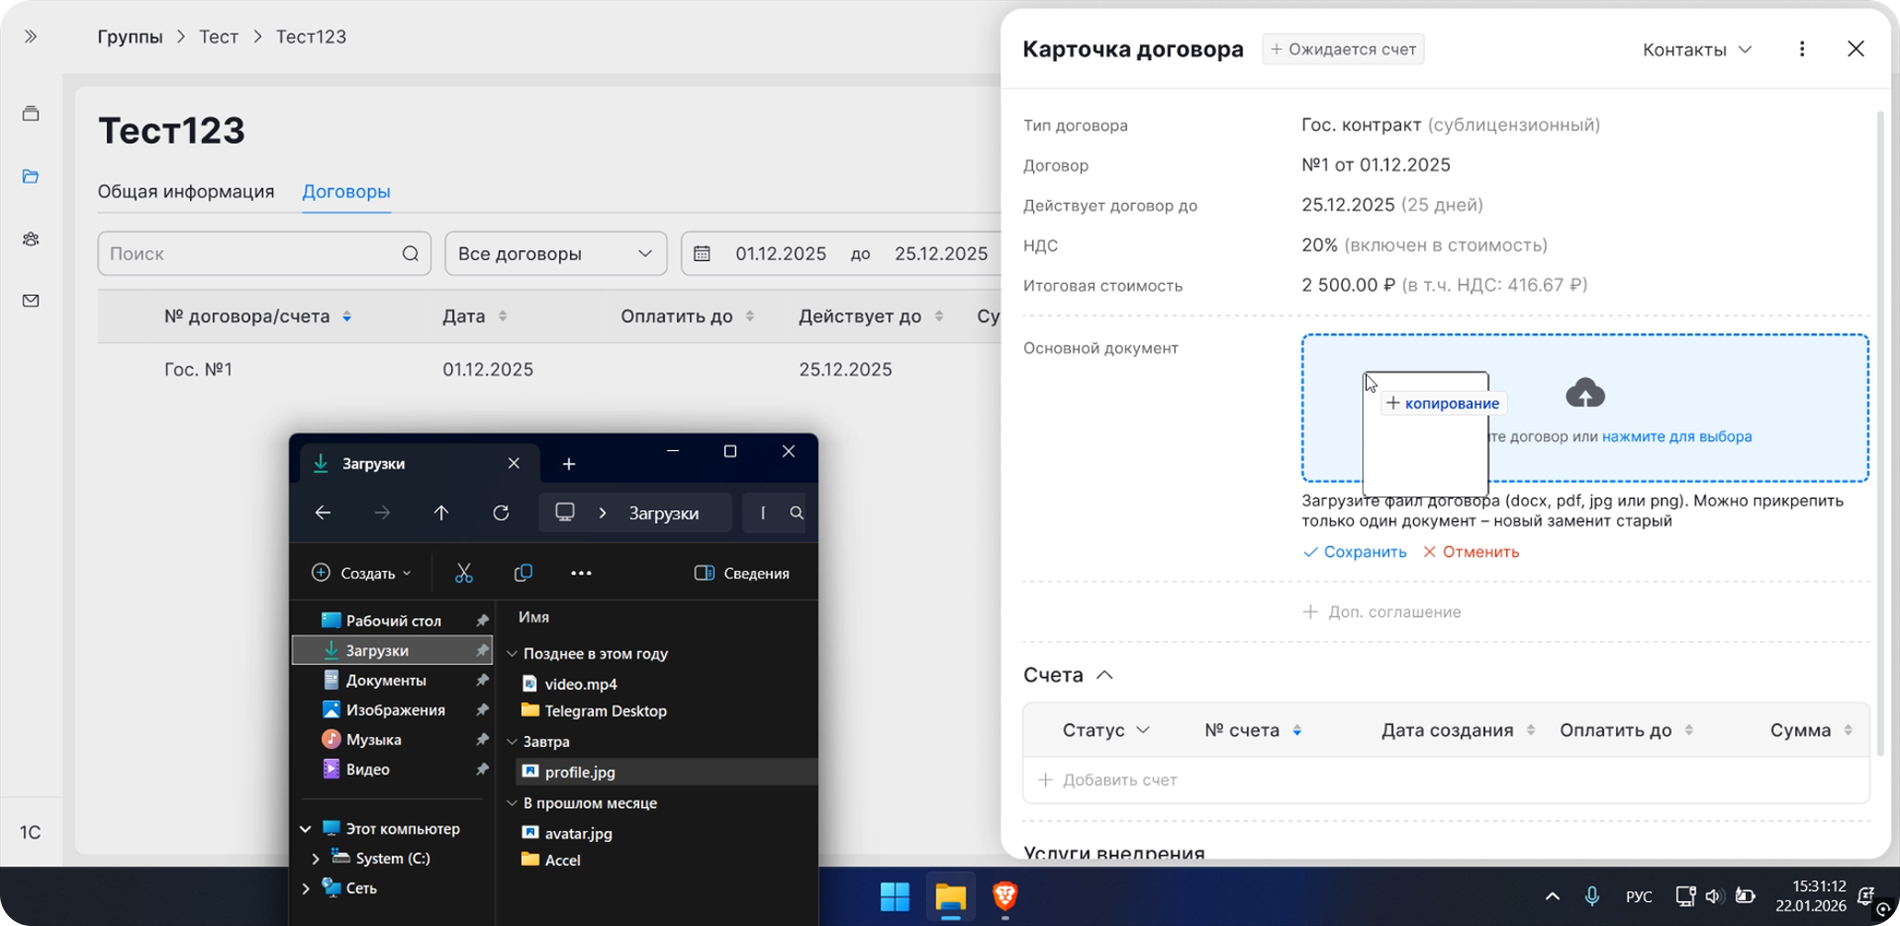
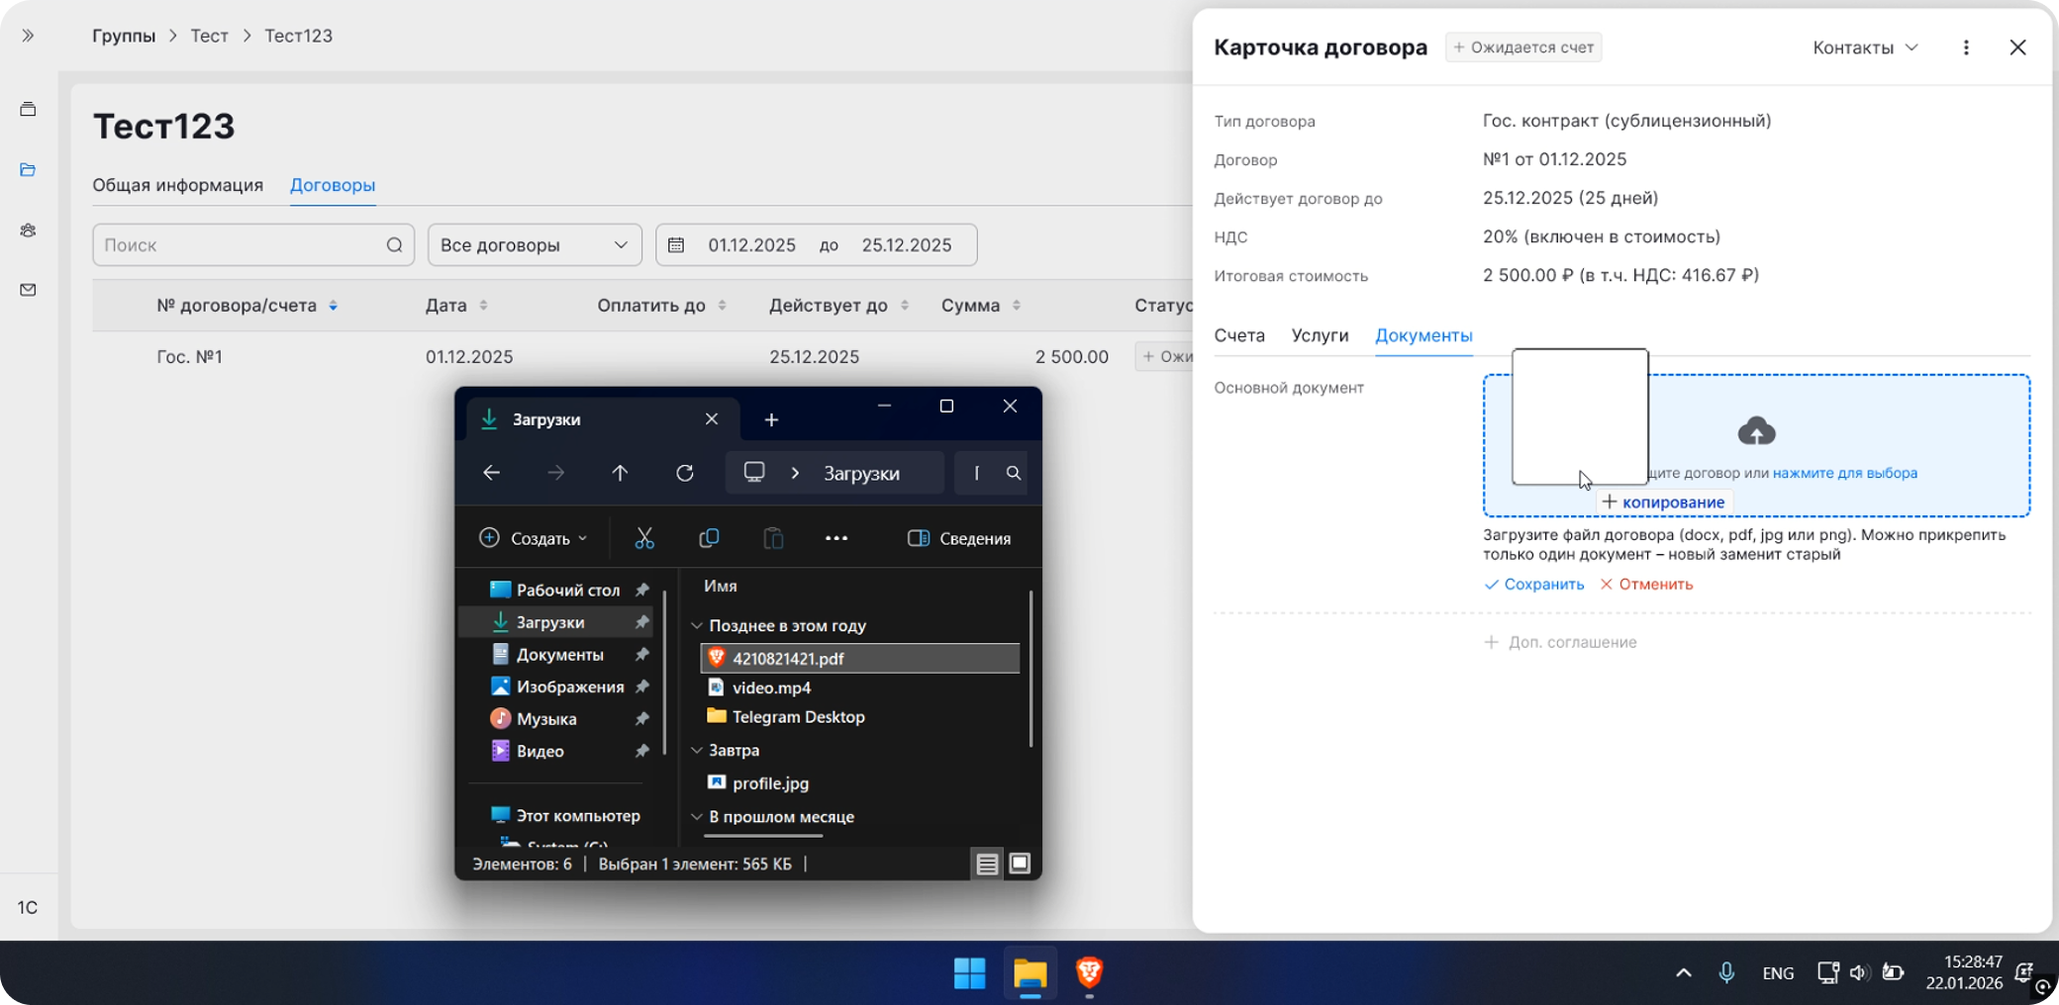
v.1.4

diff --git a/story-builder.html b/story-builder.html
@@ -41,19 +41,19 @@
       <section class="story-section anchor-section anim-load anim-delay-3" id="sb-context">
         <h2 class="story-section__title">Контекст</h2>
         <p class="story-section__description">
-          Раньше сторисы собирали разработчики, что замедляло выпуск контента, поэтому был создан конструктор сторисов, позволяющий менеджерам самостоятельно собирать и публиковать их из готовых пресетов
+          В мобильном приложении компании сторисы использовались как промо-инструмент. Для работы с этим контентом мы с командой создали конструктор сторисов – систему с готовыми пресетами, которая позволяла менеджерам самостоятельно собирать, редактировать и публиковать сторисы без участия разработчиков
         </p>
       </section>
       <section class="story-section anchor-section anim-load anim-delay-4" id="sb-problem">
         <h2 class="story-section__title">Проблема</h2>
         <p class="story-section__description">
-          Во время юзабилити-тестирования первой версии с менеджерами выяснилось, что при создании вложенных сторисов они проверяют линковку вручную, т.е. прокликивают каждую кнопку. Из-за этого процесс занимал больше времени и росло количество ошибок
+          После запуска первой версии на тестовом стенде стало понятно, что при создании вложенных сторисов менеджеры вручную проверяют линковку, прокликивая каждую кнопку, что увеличивает время работы и количество ошибок
         </p>
       </section>
       <section class="story-section anchor-section anim-load anim-delay-5" id="sb-role">
         <h2 class="story-section__title">Роль</h2>
         <p class="story-section__description">
-          Проведение юзабилити-тестирования и конкурентного анализа, описание job story и сценариев, приоритизация гипотез по ICE, подготовка screen-flow. Все решения проходили регулярные дизайн-ревью со старшим дизайнером
+          Проведение юзабилити-тестирования и конкурентного анализа, описание job story и сценариев, подготовка screen-flow. Все решения проходили регулярные дизайн-ревью со старшим дизайнером
         </p>
       </section>
       <section class="story-section anchor-section anim-load anim-delay-6" id="sb-approach">
@@ -111,26 +111,15 @@
       </div>
       <section class="story-section">
         <p class="story-section__description">
-          И наконец, на основе всего были сформулированы гипотезы улучшений, которые затем c командой приоритизировали по ICE
+          На основе тестирования и анализа пользовательских сценариев мы сформулировали основную продуктовую гипотезу: если дать пользователю единое представление о структуре и проблемных связях, то время ручной проверки перед публикацией сократится, а количество ошибок снизится
+        </p>
+        <p class="story-section__description">
+          Для проверки этой гипотезы мы рассмотрели несколько интерфейсных решений: интерактивный холст, отдельный блок со всеми переходами, карта экранов, статусы кнопок и подсветку проблемных мест
+        </p>
+        <p class="story-section__description">
+          В этом кейсе я сфокусируюсь на двух решениях: интерактивный холст и статусы кнопок
         </p>
       </section>
-      <div
-        class="image-block"
-        data-full-src="./src/img/sb-prioritization@4x.png"
-      >
-        <div class="image-block__container">
-          <img
-            class="image-block__image"
-            src="./src/img/sb-prioritization.png"
-            alt=""
-            width="984"
-            height="719"
-            loading="lazy"
-            decoding="async"
-          >
-        </div>
-        <div class="image-block__caption">Приоритизация гипотез</div>
-      </div>
       <section class="story-section anchor-section" id="sb-solution">
         <h2 class="story-section__title">Решение</h2>
         <p class="story-section__description">В изначальной версии пользователю необходимо было сначала нажать на кнопку, чтобы понять, куда она ведет</p>
@@ -154,7 +143,7 @@
       </div>
       <section class="story-section">
         <p class="story-section__description">
-          В новой версии добавили глобальный вид, который показывает все линковки в одном месте, т.е. без ручного прокликивания
+          В новой версии добавили кнопку “К глобальному виду”, которая ведет к интерактивному холсту
         </p>
       </section>
       <div
@@ -174,6 +163,11 @@
         </div>
         <div class="image-block__caption">Новая версия</div>
       </div>
+      <section class="story-section">
+        <p class="story-section__description">
+          Это позволило показать все экраны и переходы в одном месте
+        </p>
+      </section>
       <div
         class="image-block"
         data-full-src="./src/img/sb-global@4x.png"
@@ -190,28 +184,6 @@
           >
         </div>
         <div class="image-block__caption">Глобальный вид</div>
-      </div>
-      <section class="story-section">
-        <p class="story-section__description">
-          Кроме того, он интерактивный и позволяет удобно перемещать элементы
-        </p>
-      </section>
-      <div
-        class="image-block"
-        data-full-src="./src/img/sb-interactive@4x.png"
-      >
-        <div class="image-block__container">
-          <img
-            class="image-block__image"
-            src="./src/img/sb-interactive.png"
-            alt=""
-            width="780"
-            height="510"
-            loading="lazy"
-            decoding="async"
-          >
-        </div>
-        <div class="image-block__caption">Интерактивность холста</div>
       </div>
       <section class="story-section">
         <p class="story-section__description">

diff --git a/agreement-card.html b/agreement-card.html
@@ -39,13 +39,13 @@
       <section class="story-section anchor-section anim-load anim-delay-3" id="ac-context">
         <h2 class="story-section__title">Контекст</h2>
         <p class="story-section__description">
-          Работа с договором в 1С была фрагментирована: документы, доп. соглашения, счета и услуги находились в разных разделах, из-за чего пользователи постоянно переключались между экранами. Бизнес решил интегрировать 1С в корпоративный сайт, чтобы объединить ключевые сценарии в одном интерфейсе
+          На момент старта проекта большая часть работы с контрагентами происходила в 1С. Одновременно с этим многие процессы отдела коммерции и юридического отдела уже были реализованы в корпоративном сайте. Чтобы не разделять связанные сценарии между разными системами, бизнес принял решение интегрировать работу с контрагентами из 1С в корпоративный сайт
         </p>
       </section>
       <section class="story-section anchor-section anim-load anim-delay-4" id="ac-problem">
         <h2 class="story-section__title">Проблема</h2>
         <p class="story-section__description">
-          Договор в нынешней системе не являлся единой точкой работы, например, чтобы получить полный контекст, пользователю приходилось переключаться между разделами и вручную сопоставлять информацию, что замедляло выполнение сценариев работы с договором
+          После внедрения в доменную область стало понятно, что договор в текущей системе не является единой точкой работы. Чтобы собрать полный контекст по договору, пользователям приходилось переключаться между разными разделами и вручную сопоставлять информацию. Это замедляло выполнение ключевых сценариев и усложняло работу с договором
         </p>
       </section>
       <section class="story-section anchor-section anim-load anim-delay-5" id="ac-role">
@@ -257,15 +257,18 @@
         <p class="story-section__description">
           Счета и услуги перевёл в табличный формат. Он лучше подходил для сравнения однотипных сущностей и экономил вертикальное пространство. Для счетов добавил статусы прямо в списке, чтобы пользователь видел текущее состояние без перехода внутрь
         </p>
+        <p class="story-section__description">
+          Чтобы снизить перегруженность карточки и упростить навигацию, я также развел счета, услуги и документы по отдельным табам. Это помогло отделить часто используемый сценарий от второстепенных: документы и услуги нужны пользователю реже, тогда как работа со счетами занимает большую часть времени менеджера
+        </p>
       </section>
       <div
         class="image-block"
-        data-full-src="./src/img/ac-new-ver@4x.png"
+        data-full-src="./src/img/ac-account@4x.png"
       >
         <div class="image-block__container">
           <img
             class="image-block__image"
-            src="./src/img/ac-new-ver.png"
+            src="./src/img/ac-account.png"
             alt=""
             width="720"
             height="824"
@@ -273,7 +276,41 @@
             decoding="async"
           >
         </div>
-        <div class="image-block__caption">Вторая итерация</div>
+        <div class="image-block__caption">Счета во второй итерации</div>
+      </div>
+      <div
+        class="image-block"
+        data-full-src="./src/img/ac-services@4x.png"
+      >
+        <div class="image-block__container">
+          <img
+            class="image-block__image"
+            src="./src/img/ac-services.png"
+            alt=""
+            width="720"
+            height="824"
+            loading="lazy"
+            decoding="async"
+          >
+        </div>
+        <div class="image-block__caption">Услуги во второй итерации</div>
+      </div>
+      <div
+        class="image-block"
+        data-full-src="./src/img/ac-document@4x.png"
+      >
+        <div class="image-block__container">
+          <img
+            class="image-block__image"
+            src="./src/img/ac-document.png"
+            alt=""
+            width="720"
+            height="824"
+            loading="lazy"
+            decoding="async"
+          >
+        </div>
+        <div class="image-block__caption">Документы во второй итерации</div>
       </div>
       <section class="story-section">
         <p class="story-section__description">

diff --git a/script.js b/script.js
@@ -1,9 +1,9 @@
 const EMAIL_ADDRESS = "lubu.lanfen@gmail.com";
 const MAIL_ICON_PATH = "./src/icons/mail.svg";
 const SUCCESS_ICON_PATH = "./src/icons/success.svg";
-
 const MOBILE_PADDING_BREAKPOINT = 600;
 const ACTIVE_CARD_WIDTH_MAX = 520;
+const AUTO_CARD_DEMO_DELAY = 4000;
 const PADDING_MAX = 40;
 const PAGE_ANCHOR_BREAKPOINT = 960;
 const PAGE_ANCHOR_SIDE_OFFSET = 40;
@@ -338,12 +338,48 @@ function setupCardSwipe() {
       : 0;
 
   const SWIPE_THRESHOLD = 50;
+  const prefersReducedMotion =
+    window.matchMedia?.("(prefers-reduced-motion: reduce)").matches ?? false;
   let startX = 0;
   let isDragging = false;
   let cardDragging = null;
   let activePointerId = null;
+  let autoDemoTimeoutId = null;
+  let isAutoDemoStopped = prefersReducedMotion || totalCards < 2;
 
   const getActiveCard = () => cards[currentCardIndex];
+
+  function clearAutoDemoTimer() {
+    if (autoDemoTimeoutId === null) return;
+
+    window.clearTimeout(autoDemoTimeoutId);
+    autoDemoTimeoutId = null;
+  }
+
+  function stopAutoDemo() {
+    if (isAutoDemoStopped) return;
+
+    isAutoDemoStopped = true;
+    clearAutoDemoTimer();
+  }
+
+  function scheduleAutoDemo() {
+    if (isAutoDemoStopped) return;
+
+    clearAutoDemoTimer();
+    autoDemoTimeoutId = window.setTimeout(() => {
+      if (isAutoDemoStopped) return;
+
+      if (isDragging) {
+        scheduleAutoDemo();
+        return;
+      }
+
+      currentCardIndex = currentCardIndex === 0 ? 1 : 0;
+      syncCardLayout();
+      scheduleAutoDemo();
+    }, AUTO_CARD_DEMO_DELAY);
+  }
 
   function resetDragState() {
     const draggingCard = cardDragging;
@@ -371,6 +407,7 @@ function setupCardSwipe() {
     }
 
     syncCardLayout();
+    scheduleAutoDemo();
   }
 
   function updateCardStyles() {
@@ -512,6 +549,8 @@ function setupCardSwipe() {
   document.addEventListener("pointerup", handleEnd);
   document.addEventListener("pointercancel", handleCancel);
 
+  container.addEventListener("mouseenter", stopAutoDemo, { once: true });
+  container.addEventListener("pointerdown", stopAutoDemo, { once: true });
   window.addEventListener("mouseleave", handleGlobalReset);
   window.addEventListener("blur", handleGlobalReset);
   document.addEventListener("visibilitychange", () => {
@@ -521,6 +560,7 @@ function setupCardSwipe() {
   });
 
   syncCardLayout();
+  scheduleAutoDemo();
   window.addEventListener("resize", syncCardLayout);
 }
 

diff --git a/index.html b/index.html
@@ -31,16 +31,12 @@
           <div class="main-content__title">
             <div class="main-content__greeting">👋 Хей</div>
             <div class="main-content__intro">
-              <span class="main-content__intro-bold">Я Данил – продуктовый дизайнер из Уфы*.</span>
+              <span class="main-content__intro-bold">Я Данил – продуктовый дизайнер из Уфы, готов к релокации.</span>
               <span class="main-content__intro-light">Специализируюсь на B2B и B2E</span>
             </div>
           </div>
           <div class="main-content__description">
             Разрабатывал системы мониторинга, интеграцию 1С в корпоративный сайт, мобилки и внутренние конструкторы
-          </div>
-          <div class="work-list__description">
-            <i>*Но с мая готов начать свою дислокацию в любую точку мира, так
-            что буду рад и гибриду</i>
           </div>
         </div>
       <div class="link-actions anim-load anim-delay-2">
